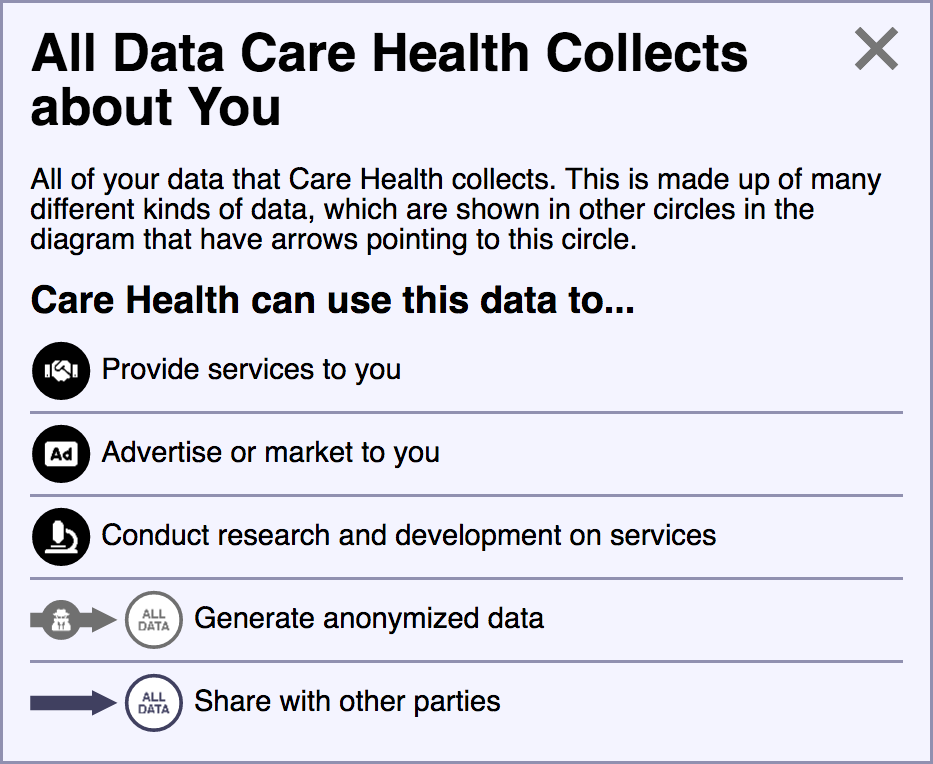
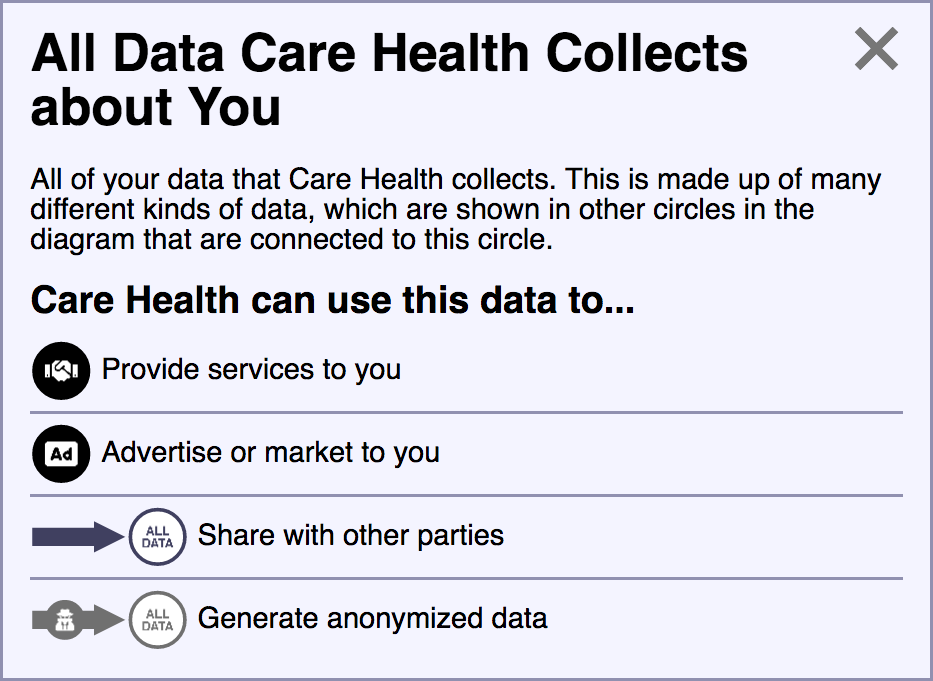
Updated tutorial to the new design.

diff --git a/tutorial.html b/tutorial.html
@@ -3,7 +3,7 @@
 <head>
 
 <meta charset="utf-8"/>
-<title>Privacy Poli-see</title>
+<title>Privacy Poli-see Tutorial</title>
 <link rel="icon" type="image/png" href="images/icon32.png">
 
 </head>
@@ -12,13 +12,13 @@
 
 <h1>How to read privacy policies using this tool</h1>
 
-<p>In this tutorial, we look at an example privacy policy of a fictional company, Care Health. This visualization of the Care Health privacy policy is designed to help you understand how Care Health can collect, use, and share your personal data.</p>
+<p>This tutorial uses the privacy policy of a fictional company named Care+. This visualization of the Care+ privacy policy is designed to help you understand how Care+ can collect, use, and share your personal data.</p>
 
-<p>When you use Care Health, it will collect different types of data from you. These different types of data are represented in the visualization by small <strong>circles</strong>.</p>
+<p>When you use Care+'s app, it will collect different types of data from you. These different types of data are represented in the visualization by small <strong>circles</strong>.</p>
 
 <img src="images/tutorial/1.png" width="400px"></img>
 
-<p><strong>Hover</strong> over a circle with your mouse to select it and learn more about how your data can be shared, changed, or used. You can <strong>hover</strong> over and <strong>click</strong> on a circle to keep it selected.</p>
+<p><strong>Hover</strong> over a circle with your mouse to select it and learn more about how your data can be shared, changed, or used. You can <strong>click</strong> on a circle to keep it selected.</p>
 
 <img src="images/tutorial/2.png" width="300px"></img>
 
@@ -26,21 +26,17 @@
 
 <img src="images/tutorial/3.png" width="200px"></img>
 
-<p>There are <strong>two rings</strong> in the display. The inner ring, labeled "Care Health," contains circles representing data that is held by Care Health. The outer ring, labeled "Third parties," contains circles representing data that is held by others. </p>
+<p>There are <strong>two rings</strong> in the display. The inner ring, labeled "Care+," contains circles representing data that is held by Care+. The outer ring, labeled "Third parties," contains circles representing data that is held by others. </p>
 
 <img src="images/tutorial/4.png" width="300px"></img>
 
-<p>Some data can be <strong>traced back to your identity</strong>. For example, Care Health might store your location with your name. These circles are colored dark blue. Other data is <strong>anonymous</strong> or otherwise not linked to your identity, and these circles are light gray.</p>
+<p>Sometimes, Care+ describes what it can do with <strong>all data it collects about you</strong>. This is represented by circles with a white background that say "<strong>ALL DATA</strong>." Hovering over the big central circle should provide a decent overview of how Care+ can use any data it collects about you.</p>
 
-<img src="images/tutorial/5.png" width="100"></img>
+<img src="images/tutorial/5.png" width="300px"></img>
 
-<p>Sometimes, Care Health describes what it can do with <strong>all data it collects about you</strong>. This is represented by circles with a white background that say "<strong>ALL DATA</strong>." The light-colored arrows in the background indicate that specific kinds of data collected by Care Health, represented by other circles, are also included as part of all data.</p>
+<p>You have control over some of the data Care+ collects. This control is shown by a <strong>gear icon</strong> on the circles representing data you can control.</p>
 
-<img src="images/tutorial/6.png" width="150"></img>
-
-<p>You have control over some of the data Care Health collects. This control is shown by a <strong>small gear icon</strong> on the circles representing data you can control.</p>
-
-<img src="images/tutorial/7.png" width="100"></img>
+<img src="images/tutorial/6.png" width="100px"></img>
 
 </body>
 

diff --git a/tool.html b/tool.html
@@ -61,7 +61,7 @@
   <div id="help_panel_box" class="panel_box" style="display: none">
     <div id="help_panel" class="panel">
       <h1>Help</h1>
-      <p>Click <a href="tutorial.html">here</a> for a tutorial on how to use Privacy Poli-See.</p>
+      <p>Click <a href="tutorial.html" target="_blank">here</a> for a tutorial on how to use Privacy Poli-See.</p>
       <div id="help_panel_colors_box" class="panel_list_box">
         <h2>Colors</h2>
       </div>
